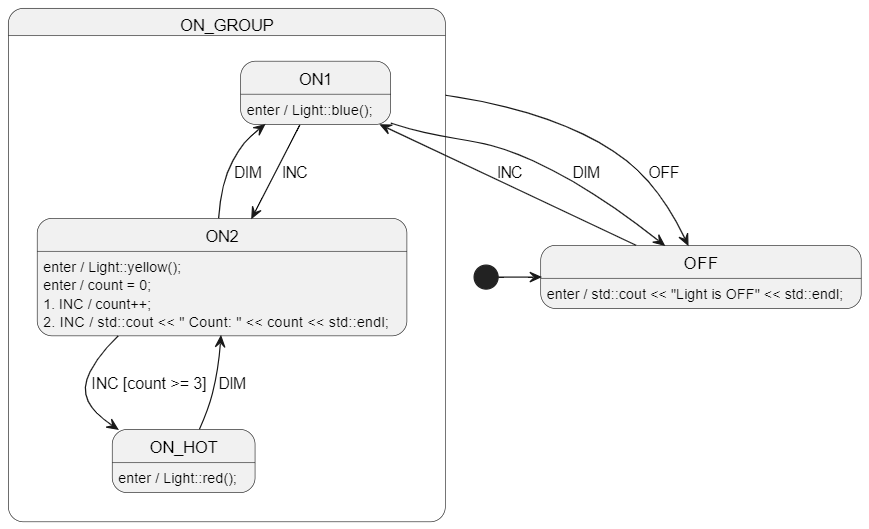
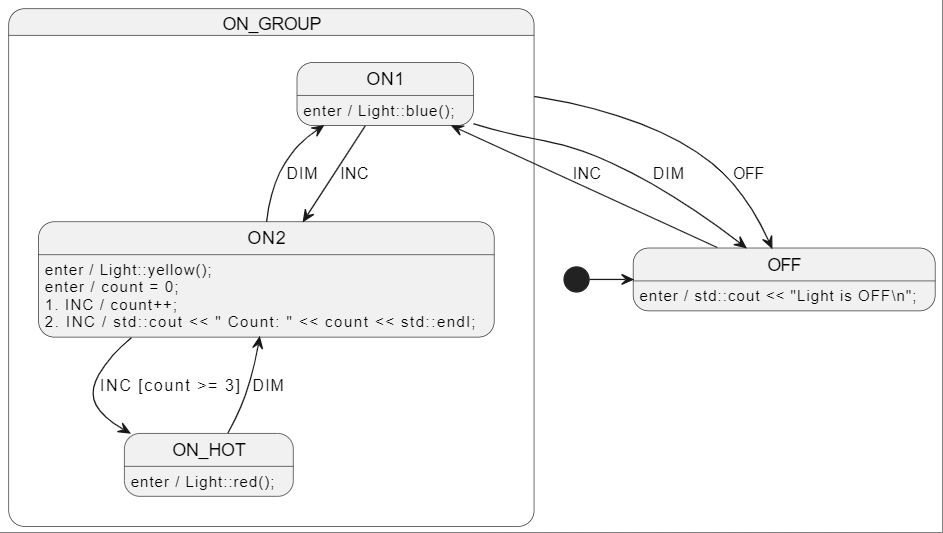
lesson 4 cpp tidy

Changed region(s): [[0.0, 0.0, 1.0, 1.0], [0.1243, 0.7864, 0.3107, 0.9376], [0.4971, 0.0, 0.5593, 0.0302]]

diff --git a/lesson-4/cpp-gcc/LightSm.sim.html b/lesson-4/cpp-gcc/LightSm.sim.html
@@ -220,7 +220,7 @@ OFF
 
 OFF : OFF
 
-OFF : enter / #123; std#58#59;#58#59;cout << "Light is OFF" << std#58#59;#58#59;endl#59; #125;
+OFF : enter / #123; std#58#59;#58#59;cout << "Light is OFF#92;n"#59; #125;
 
 state ON_GROUP {
 
@@ -477,10 +477,10 @@ evaluateGuard = null;
         } // end of behavior for OFF
         
         // OFF behavior
-        // uml: enter / { this.tracer?.log("⚡ FSM would execute action: " + "std::cout << \"Light is OFF\" << std::endl;"); }
+        // uml: enter / { this.tracer?.log("⚡ FSM would execute action: " + "std::cout << \"Light is OFF\n\";"); }
         {
-            // Step 1: execute action `this.tracer?.log("⚡ FSM would execute action: " + "std::cout << \"Light is OFF\" << std::endl;");`
-            this.tracer?.log("⚡ FSM would execute action: " + "std::cout << \"Light is OFF\" << std::endl;");
+            // Step 1: execute action `this.tracer?.log("⚡ FSM would execute action: " + "std::cout << \"Light is OFF\n\";");`
+            this.tracer?.log("⚡ FSM would execute action: " + "std::cout << \"Light is OFF\n\";");
         } // end of behavior for OFF
     }
     

diff --git a/lesson-4/cpp-gcc/LightSm.cpp b/lesson-4/cpp-gcc/LightSm.cpp
@@ -200,10 +200,10 @@ static void OFF_enter(LightSm* sm)
     sm->state_id = LightSm_StateId_OFF;
     
     // OFF behavior
-    // uml: enter / { std::cout << "Light is OFF" << std::endl; }
+    // uml: enter / { std::cout << "Light is OFF\n"; }
     {
-        // Step 1: execute action `std::cout << "Light is OFF" << std::endl;`
-        std::cout << "Light is OFF" << std::endl;
+        // Step 1: execute action `std::cout << "Light is OFF\n";`
+        std::cout << "Light is OFF\n";
     } // end of behavior for OFF
 }
 

diff --git a/lesson-4/cpp-gcc/README.md b/lesson-4/cpp-gcc/README.md
@@ -1,18 +1,19 @@
-# C++ - Welcome!
+# C++ Welcome!
 This example uses gcc for convenience, but you can use any C++ compiler you like.
 
 The only GCC specific things are:
 - the tiny build shell script `build_run.sh`
+
+
+<br>
 
 # Diagram
 See [LightSm.plantuml](./LightSm.plantuml) for the PlantUML code.
 
 ![](docs/fsm.png)
 
-> NOTE: I just noticed a minor issue with StateSmith PlantUML support and `\n` characters.
-C++ already has `std::endl` so this is less of an issue for C++ than for C.
-See [issue 369](https://github.com/StateSmith/StateSmith/issues/369) for workaround and details.
 
+<br>
 
 # Run The Code Gen
 Run in this directory:
@@ -20,12 +21,17 @@ Run in this directory:
 ss.cli run -h
 ```
 
+
+<br>
+
 # Run The Example Project
 Run in this directory:
 ```
 ./build_run.sh
 ```
 
+
+<br>
 
 # More examples
 https://github.com/StateSmith/StateSmith-examples
